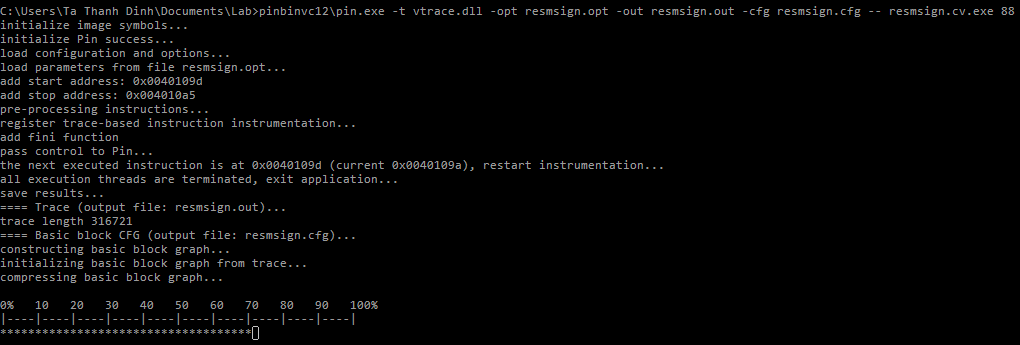
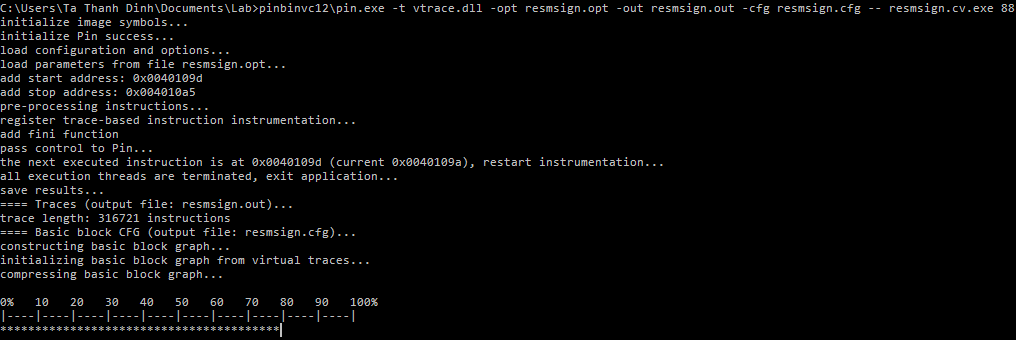
minor

Changed region(s): [[0.0, 0.0, 1.0, 0.8235], [0.0, 0.8529, 0.3967, 0.9706]]

diff --git a/src/lib/cap/graph.cpp b/src/lib/cap/graph.cpp
@@ -377,7 +377,7 @@ static auto construct_bb_graph () -> void
 //      }
 //    }
 
-  tfm::printfln("initializing basic block graph from trace...");
+  tfm::printfln("initializing basic block graph from virtual traces...");
   auto prev_bb_desc = bb_graph_t::null_vertex();
   for (const auto& inst : trace) {
     auto ins_addr = std::get<INS_ADDRESS>(inst);
@@ -760,6 +760,28 @@ static auto write_cfg_vertex (std::ostream& label, bb_vertex_desc_t vertex_desc)
 }
 
 
+static auto write_cfg_thumbnail_vertex (std::ostream& label, bb_vertex_desc_t vertex_desc) -> void
+{
+  if (is_first_bb(vertex_desc)) {
+      tfm::format(label, "[shape=box,style=\"filled,rounded\",fillcolor=cornflowerblue,label=\"");
+  }
+  else if (boost::out_degree(vertex_desc, internal_bb_graph) == 0) {
+    tfm::format(label, "[shape=box,style=\"filled,rounded\",fillcolor=gainsboro,label=\"");
+  }
+  else if (boost::in_degree(vertex_desc, internal_bb_graph) > 2) {
+    tfm::format(label, "[shape=box,style=\"filled,rounded\",fillcolor=darkorchid1,label=\"");
+  }
+  else if (boost::out_degree(vertex_desc, internal_bb_graph) > 2) {
+    tfm::format(label, "[shape=box,style=\"filled,rounded\",fillcolor=darkgoldenrod1,label=\"");
+  }
+  else tfm::format(label, "[shape=box,style=rounded,label=\"");
+
+  tfm::format(label, "%d", std::get<BB_ORDER>(internal_bb_graph[vertex_desc]));
+  tfm::format(label, "\",fontname=\"Inconsolata\",fontsize=10.0]");
+  return;
+}
+
+
 static auto write_cfg_edge (std::ostream& label, bb_edge_desc_t edge_desc) -> void 
 {
   tfm::format(label, "[label=\"\"]");
@@ -784,7 +806,7 @@ auto cap_save_basic_block_cfg_to_dot_file (const std::string& filename)  -> void
 
     tfm::printfln("saving basic block graph...");
     boost::write_graphviz(output_file, internal_bb_graph,
-                          std::bind(write_cfg_vertex, std::placeholders::_1, std::placeholders::_2),
+                          std::bind(write_cfg_thumbnail_vertex, std::placeholders::_1, std::placeholders::_2),
                           std::bind(write_cfg_edge, std::placeholders::_1, std::placeholders::_2));
     output_file.close();
   }

diff --git a/src/lib/cap/parser.cpp b/src/lib/cap/parser.cpp
@@ -66,7 +66,7 @@ auto real_value_of_mem (const std::pair<dyn_mem_t, ADDRINT>& mem_val) -> ADDRINT
 
 auto save_in_simple_format (std::ofstream& output_stream) -> void
 {
-  tfm::printfln("trace length %d", trace.size());
+  tfm::printfln("trace length: %d instructions", trace.size());
 
   for (const dyn_ins_t& ins : trace) {
     auto ins_addr = std::get<INS_ADDRESS>(ins);

diff --git a/src/main.cpp b/src/main.cpp
@@ -252,7 +252,7 @@ auto stop_pin (INT32 code, VOID* data) -> VOID
 {
   tfm::printfln("save results...");
 
-  tfm::printfln("==== Trace (output file: %s)...", output_file.Value());
+  tfm::printfln("==== Traces (output file: %s)...", output_file.Value());
   cap_save_trace_to_file(output_file.Value());
 
   if (trace_dot_file.Value() != trace_dot_default_filename) {
